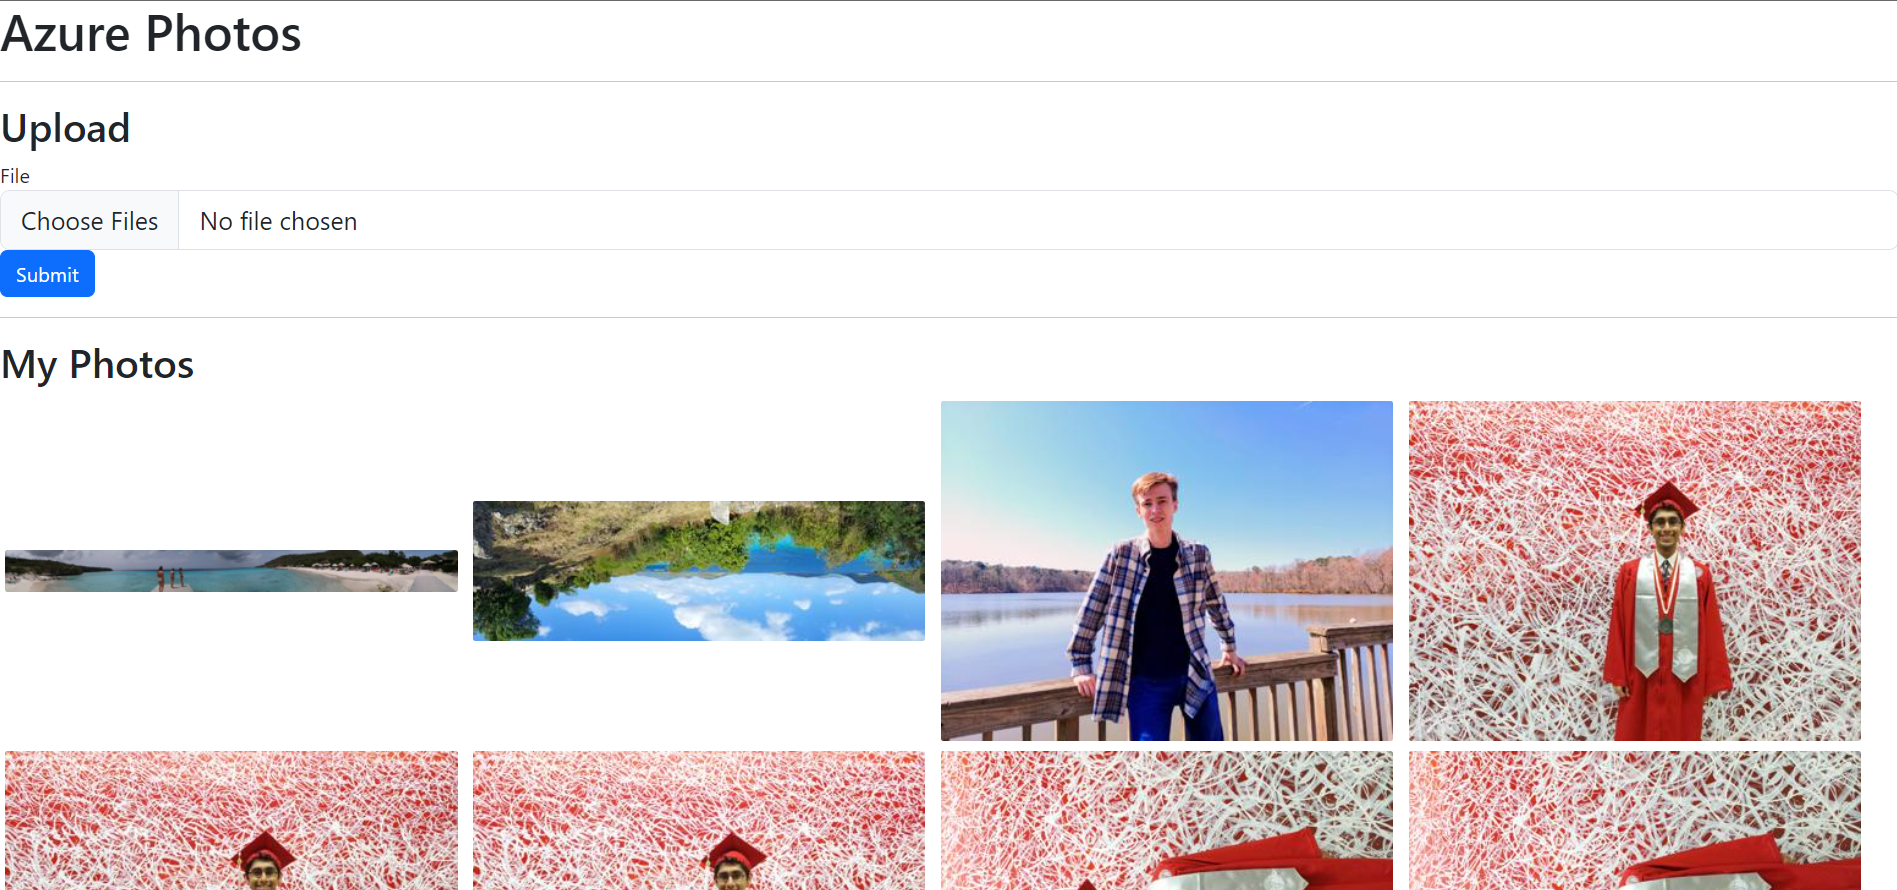
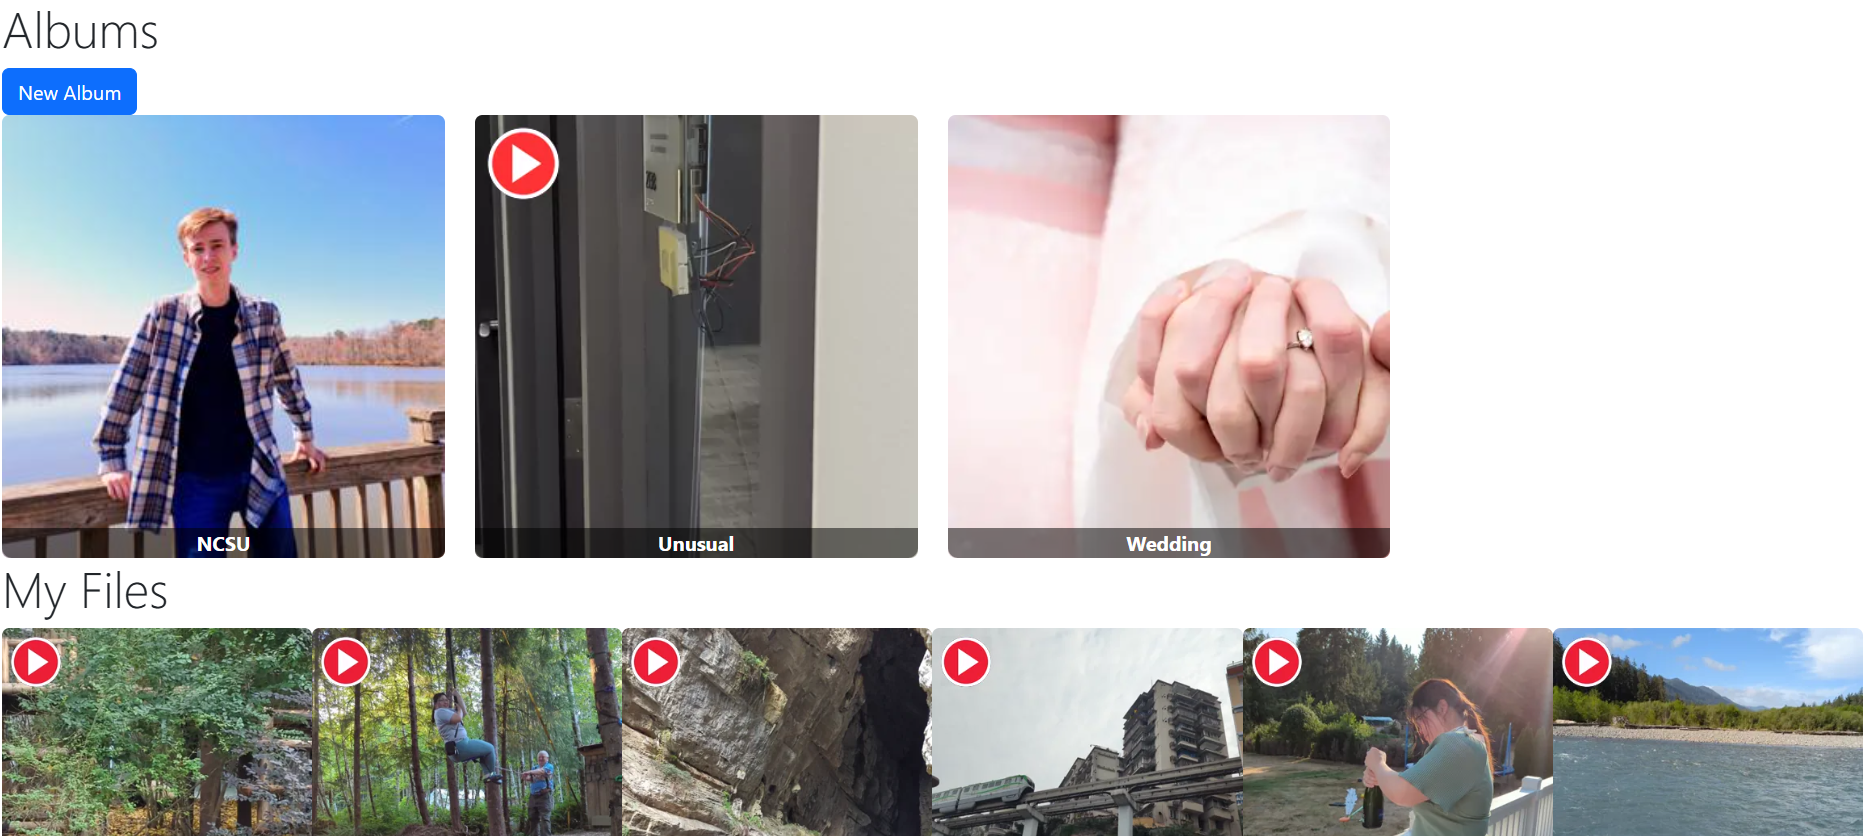
Update AzurePhotos

diff --git a/_includes/projects/azurephotos.html b/_includes/projects/azurephotos.html
@@ -2,110 +2,104 @@
 
 <h3 class="text-uppercase text-black">Problem</h3>
 <p>
-  "You're at 80% of your storage quota," Google warned me yet again. With only
-  17GB total of Drive space, I'd reach 100% in a few short months. What could I
-  do when each of my photos could be 10MB, and I refuse to let my precious
-  photos be compressed to "Storage Saver" quality? Google of course had a
-  solution: Buy one of their Google One plans. For the best deal, pay $100 and
-  get 2TB of storage (and some other features) for the year. However, armed with
-  $150/month of Azure credits from work, I knew I could build a more
-  cost-effective solution and learn more about Azure along the way.
+  "You're at 80% of your storage quota," Google warned me yet again. With only 17GB total of Drive space, I'd reach 100%
+  in a few short months. What could I do when each photo is around 10MB, and I refuse to let my precious photos be
+  compressed to "Storage Saver" quality? Google of course had a solution: buy one of their Google One plans. For the
+  best deal, pay $100 and get 2TB of storage (and some other features) for the year. However, armed with $150/month of
+  Azure credits from work, I knew I could build a more cost-effective solution and learn more about Azure along the way.
 </p>
 
 <h3 class="text-uppercase text-black">Design</h3>
 <p>
-  Copying advanced features like photo editing and object recognition from
-  Google Photos is not feasible. However, the basic features I need, such as
-  uploading, viewing, and deleting photos, are available. By utilizing a storage
-  account, I can store up to 2TiB of photos and even enable geo-backup for an
-  additional cost, ensuring data replication to another data center. The UI is
-  served through a Flask Web App. Azure facilitates a secure login flow via my
-  Microsoft account, ensuring authentication for all requests to my app by
-  storing a secret in a Key Vault and enabling login integration. The Web App
-  communicates with the storage account using the
-  <a
-    href="https://learn.microsoft.com/en-us/azure/storage/blobs/storage-quickstart-blobs-python"
-    >azure-storage-blob</a
-  >
-  Python library, allowing photo uploads, fetching, and deletion. Furthermore,
-  the library can generate time-based user-delegated keys, enabling direct
-  serving of photos from the storage account without the risk of exposing
-  connection strings.
+  Implementing the more advanced Google Photos features like editing and object recognition isn't feasible. I really
+  just need basic photo storage and management: upload, view, and delete. Using a Storage Account, I can store petabytes
+  of photos and even enable geo-redundant backup. The UI is served through a Flask Web App. Entra facilitates a secure
+  login flow via my Microsoft account. The Web App communicates with the Storage Account using the <a
+    href="https://learn.microsoft.com/en-us/azure/storage/blobs/storage-quickstart-blobs-python">azure-storage-blob</a>
+  Python library. Furthermore, Storage Accounts allow for time-boxed, read-only, user-delegated SAS keys, allowing me to
+  serve photos directly from the Storage Account without enabling riskier operations.
 </p>
 
 <div class="row">
   <div class="col text-center">
-    <img
-      src="/assets/Images/Projects/AzurePhotos/AzurePhotosUI.png"
-      alt="A user interface with buttons to upload photos and photos displayed below"
-    />
+    <img src="/assets/Images/Projects/AzurePhotos/AzurePhotosUI.png"
+      alt="A user interface with buttons to upload photos and photos displayed below" />
   </div>
 </div>
+<hr />
 
+<h3 class="text-uppercase text-black">Performance</h3>
 <p>
-  I encountered two performance issues that significantly slowed down the page
-  loading. First, the page attempted to load all images in the storage account,
-  even if the user hadn't scrolled far enough to view them. Fortunately, by
-  utilizing the <code>loading="lazy"</code> attribute for <code>imgs</code>,
-  requests for images are only made when they are close to entering the user's
-  view. Second, the page requested full-sized images from the storage account,
-  resulting in downloading at least a dozen files as large as 10MB each when the
-  page ran. To address this, I implemented an Azure Function that detects
-  newly-uploaded images and generates smaller thumbnails for the web app to
-  display. When a user clicks on a thumbnail, the app presents the full-sized
-  image in a larger view. While I could have integrated the resizing directly
-  into the WebApp to execute upon image upload, I opted to experiment with Azure
-  Functions. Even on the free tier, my function resizes images in under 1
-  second.
+  I encountered several performance issues that slowed page loads. First, the page was loading the full-size ~10MB
+  images from the Storage Account, which slowed everything down and wasted users' mobile data. To solve this, I added
+  thumbnail generation when the user uploaded a new image. The page would show this much smaller thumbnail, and the user
+  could click on the thumbnail to view in full resolution.
+</p>
+<p>
+  Second, the page attempted to load all images on the page, even if the user hadn't scrolled far enough to view them
+  yet. This problem is solved by adding <code>loading="lazy"</code> attributes to each thumbnail <code>img</code>. Now,
+  the page would only load thumbnails when they are close to entering the user's view.
+</p>
+<p>
+  Finally, if the user uploaded just one image or did something else to refresh the page, all images would be requested
+  again, which takes time and costs bandwidth. The solution here is to add a <code>cache-control</code> header to the
+  thumbnail and full-size responses. On subsequent requests for the same resource, the browser will serve the image
+  from memory or disk.
 </p>
 
 <div class="row">
   <div class="col text-center">
-    <img
-      src="/assets/Images/Projects/AzurePhotos/AzurePhotosDesign.png"
-      alt="A design diagram with an Active Directory, Web App, Key Vault, Storage Account, and Function App"
-    />
+    <img src="/assets/Images/Projects/AzurePhotos/CacheControl.png"
+      alt="A browser's network dev tools showing responses served from cache" />
   </div>
 </div>
+<hr/>
+
+<h3 class="text-uppercase text-black">Feedback</h3>
+<p>
+  After showing my only user (my wife) the app, she requested two important features. First, the ability to create albums to
+  organize photos. This was pretty simple to implement. I used the <a
+    href="https://learn.microsoft.com/en-us/python/api/overview/azure/data-tables-readme?view=azure-python">azure-data-tables</a>
+  library to create a table tracking each album and the photos it contained. I also needed to select one thumbnail from
+  the photos in the album to represent the entire album. Now I could display that album thumbnail on the main page,
+  alongside any photos not assigned to an album.
+</p>
+<p>
+  The second requested feature was to support videos. At first, I was worried about how to stream the video from the
+  Storage Account in chunks instead of needing to wait to download the whole thing. Thankfully, HTML5 video elements and
+  the Storage Account's support for HTTP range requests handle this out of the box. The next challenge was generating
+  thumbnails. <a href="https://ffmpeg.org/">FFmpeg</a> is the obvious choice here. It could select the first key frame,
+  resize it, and even add an icon in the top left to indicate it was a video. I ended up having to ship the FFmpeg
+  binaries with my app as trying to install them during deployment often timed out.
+</p>
+
+<hr />
 
 <h3 class="text-uppercase text-black">Costs</h3>
 <p>
-  My solution costs about $0.42 per day at rest, and $1.00 per day when in use.
-  Although this cost is a small part of my credits budget, it is
-  considerably more expensive than Google One. More than half the cost is just
-  from running the web app. If it weren't necessary for the web app to be
-  constantly active, I could switch to the free tier App Service Plan.
-  Additionally, disabling the geo-backup option on the storage account would
-  significantly reduce most of the bandwidth expenses. If I could eliminate or
-  distribute these costs among multiple users like Google does, I would be able
-  to compete with Google One's pricing.
+  My solution costs about $0.45 per day, or about $162 per year. Although this cost is a small part of my credits
+  budget, it is considerably more expensive than Google One. Over 85% of the cost is the B1 App Service Plan hosting the
+  app. If it weren't necessary for the web app to be constantly active, I could probably switch to the free tier App
+  Service Plan. If I could distribute these costs among more users like Google does, I would be able to compete with
+  Google One's prices.
 </p>
 
 <div class="row">
   <div class="col text-center">
-    <img
-      src="/assets/Images/Projects/AzurePhotos/AzurePhotosCosts.png"
-      alt="Azure cost analysis graphs"
-    />
+    <img src="/assets/Images/Projects/AzurePhotos/AzurePhotosCosts.png" alt="Azure cost analysis graphs" />
   </div>
 </div>
+<hr />
 
-<h3 class="text-uppercase text-black">Learnings &amp; Future Enhancements</h3>
+<h3 class="text-uppercase text-black">Future Features</h3>
 <p>
-  I wouldn't recommend trying to build your own cloud photo storage solution
-  unless you don't care about advanced features and have free Azure credits.
-  However, as a learning experience, I know much more about setting up multiple
-  Azure components, deploying code to them, and using secure, credential-free
-  authentication.
+  My user has asked for photos to be arranged chronologically with visual cues for the month and year. Photos are
+  already arranged by either their EXIF metadata or upload time, so this should mostly be a UI change. As a stretch
+  goal,
+  my user would like photo locations to be displayed on a map. Although the location itself is likely in the EXIF
+  metadata, I'm not quite sure how to go from there. Personally, I think further leveraging the user-delegated SAS
+  feature to allow sharing photos with others would be neat.
 </p>
-
 <p>
-  I can add more features similar to Google Photos, such as chronological
-  ordering and album creation. Furthermore, I can utilize the user-delegated key
-  functionality to enable sharing links to photos that automatically expire
-  after a specific time. As for a more advanced capability, I have already
-  prototyped image embedding techniques to identify near-duplicates, allowing
-  users to keep only one copy. You can find the notebook and all other project
-  code on
-  <a href="https://github.com/wmboyles/AzurePhotos">GitHub</a>.
+  You can find all the project code on <a href="https://github.com/wmboyles/AzurePhotos">GitHub</a>.
 </p>
